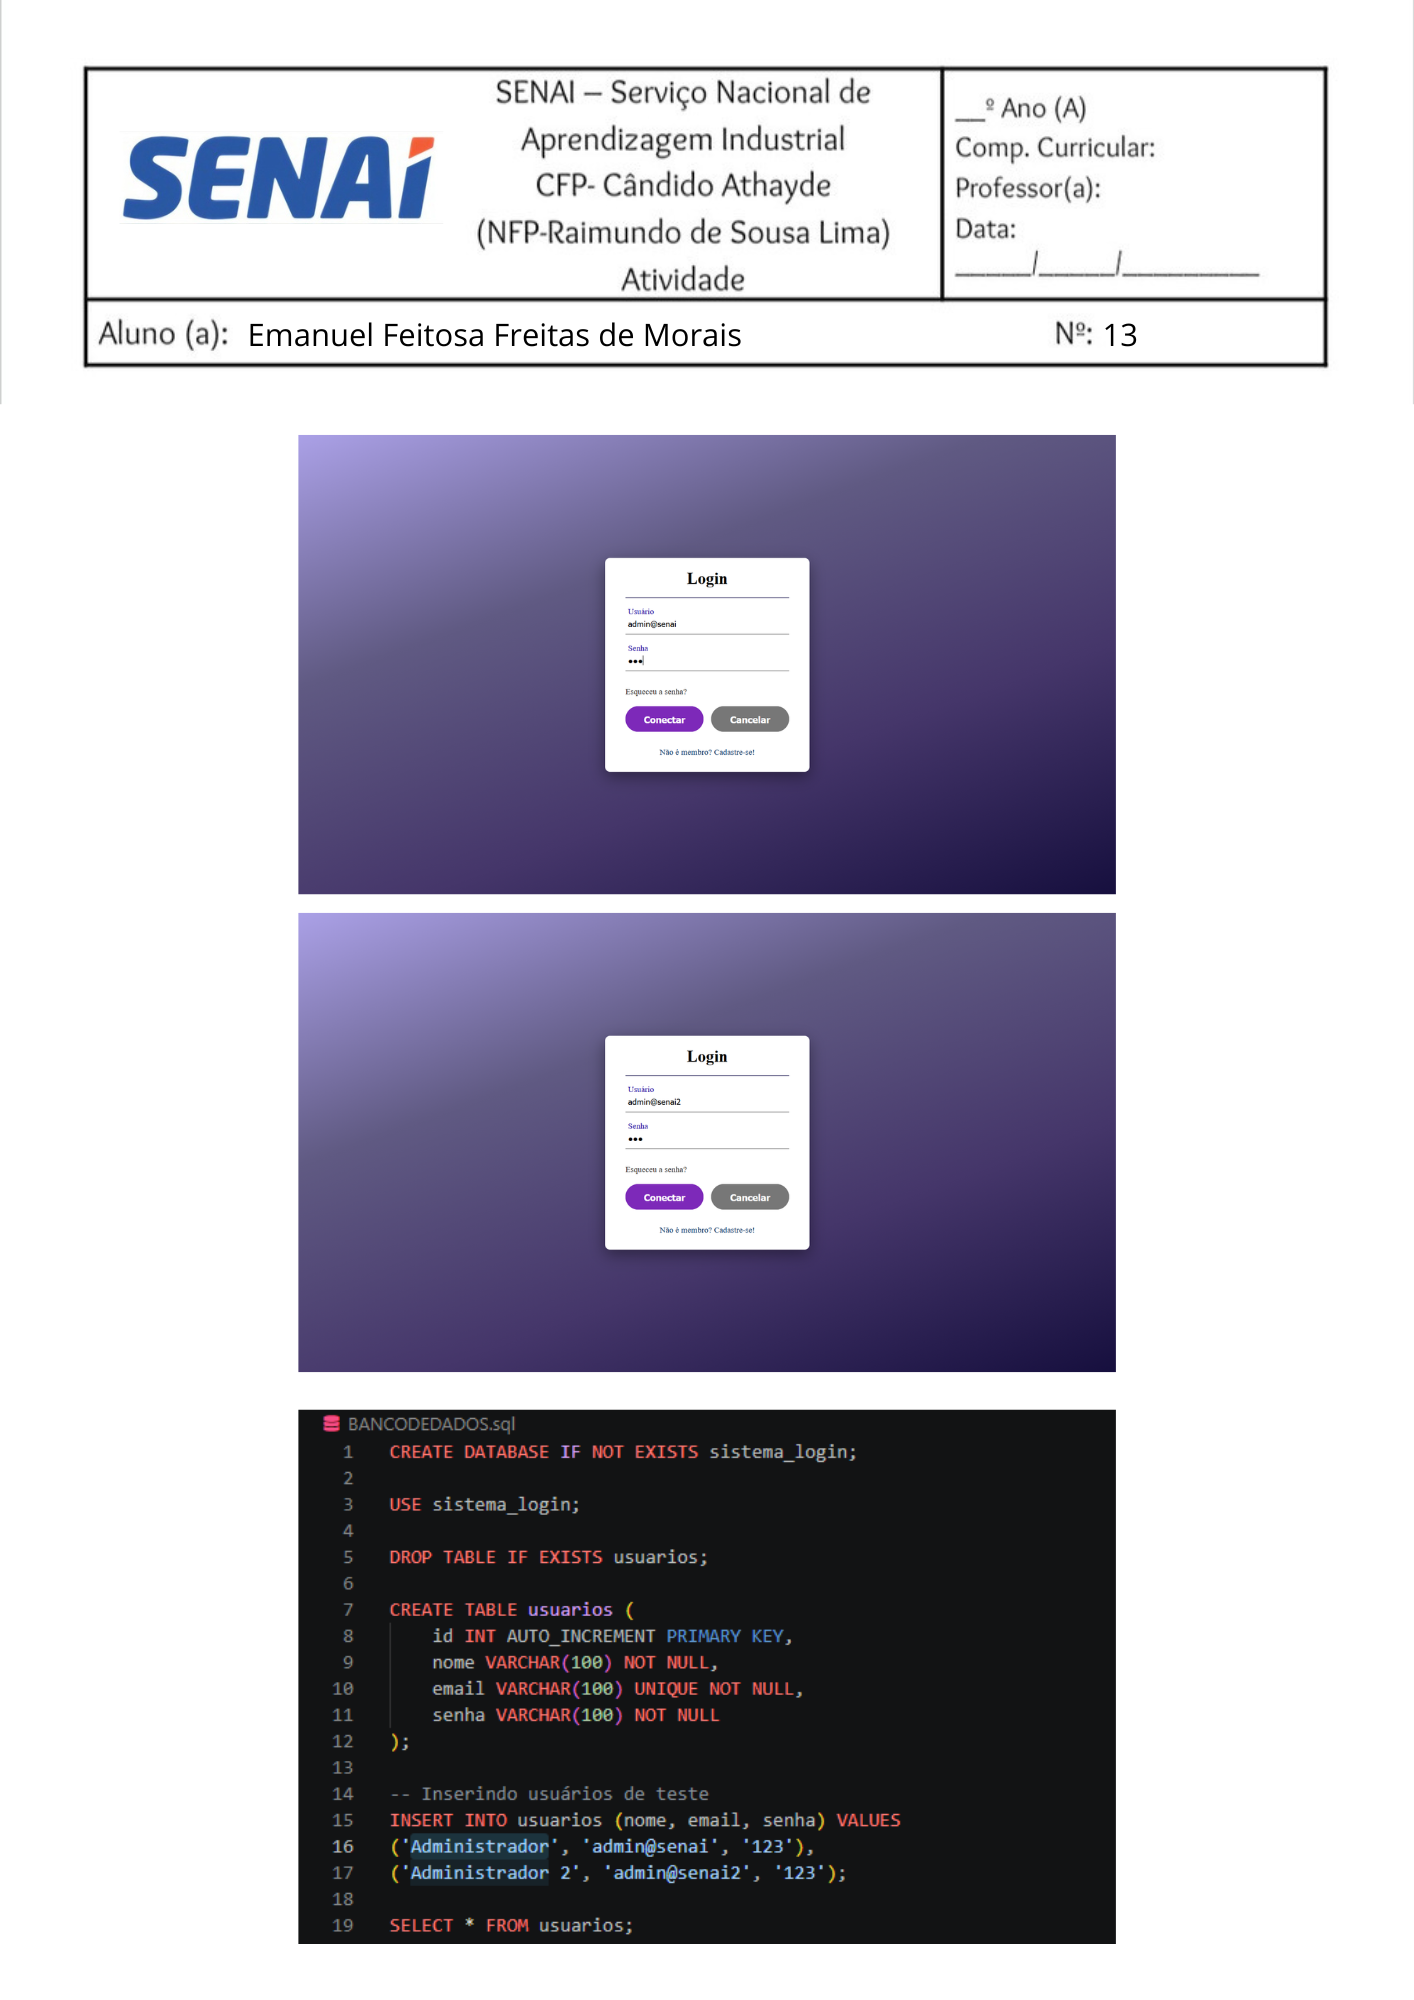
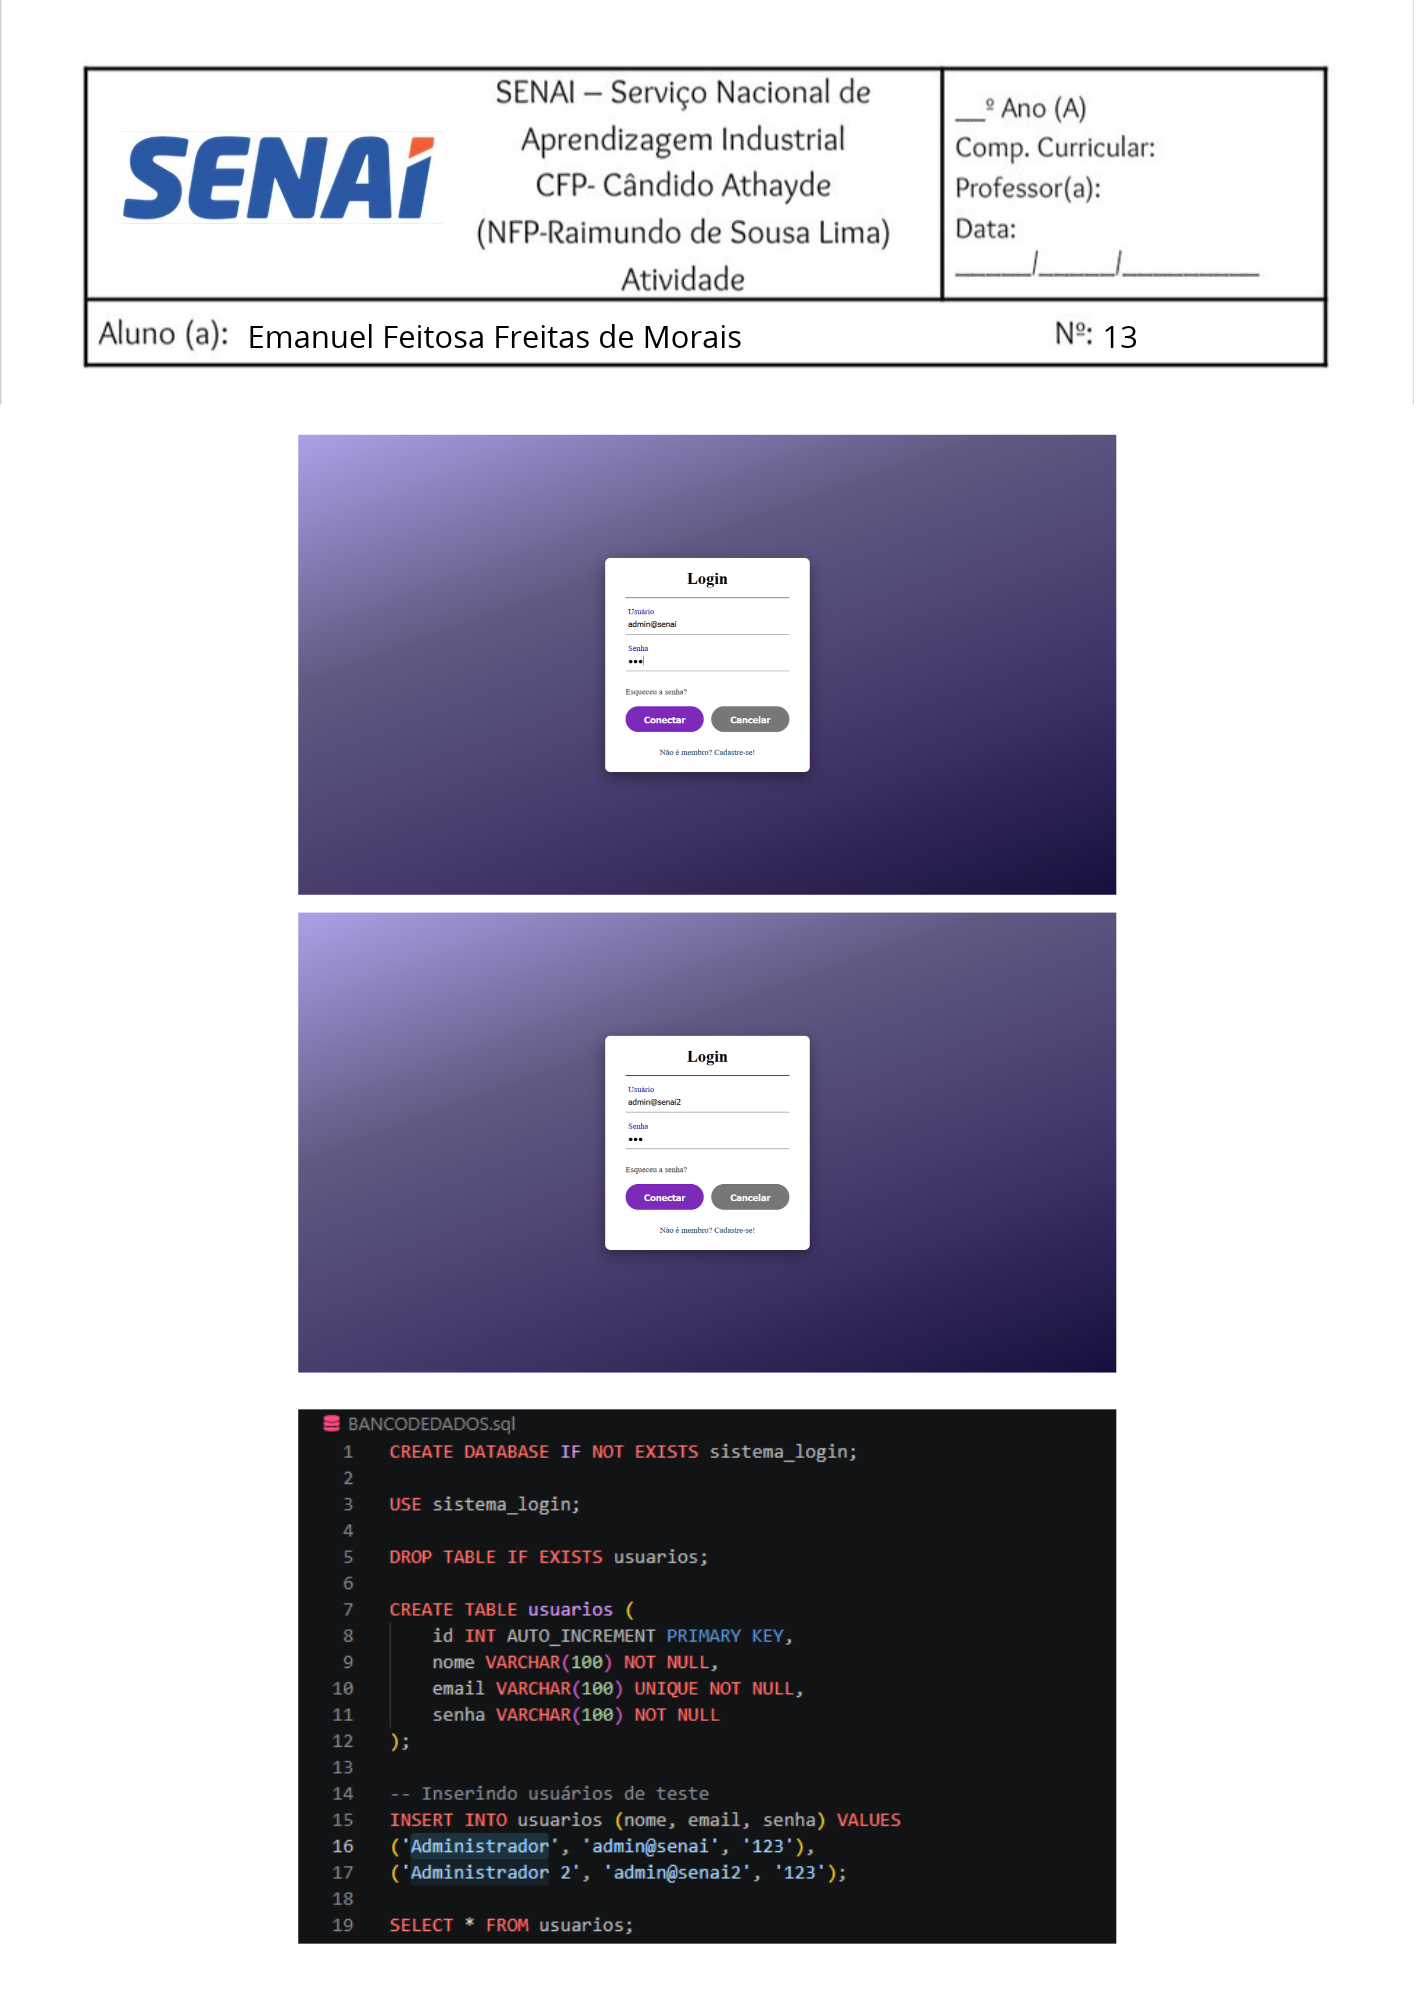
atualização portfolio

diff --git a/senai.html b/senai.html
@@ -34,14 +34,14 @@
     <div class="atividades_container">
         <div class="card_eixo">
             <h2>Eixo 3</h2>
-            <img src="./Portfólio Vertical/" alt="Eixo 3">
-            <p class="info_atividade">Em breve</p>
+            <img src="./Portfólio Vertical/login sem bancos de dados.png" alt="Eixo 3">
+            <p class="info_atividade">Login com duas verificações de senha.</p>
             <p class="info_professor">Cleiton</p>
         </div>
         <div class="card_eixo">
             <h2>Eixo 4</h2>
-            <img src="./Portfólio Vertical/" alt="Eixo 4">
-            <p class="info_atividade">Em breve</p>
+            <img src="./Portfólio Vertical/projeto institucional.png" alt="Eixo 4">
+            <p class="info_atividade">projeto institucional</p>
             <p class="info_professor">Cleiton</p>
         </div>
     </div>
@@ -49,16 +49,41 @@
     <h1>Eixo 3</h1>
     <div class="atividades">
         <div class="card_eixo">
-            <img src="./Portfólio Vertical/Diferenças que somam.png" alt="">
-            <p class="info_atividade">Diferenças que somam</p>
+            <img src="./Portfólio Vertical/bossa nova hotel 2.png" alt="">
+            <p class="info_atividade">Desenvolvimento do projeto para academias e farmácias, incluindo banco de dados, briefing, site e logotipo.</p>
+            <p class="info_professor">Cleiton</p>
+        </div>
+        <div class="card_eixo">
+            <img src="./Portfólio Vertical/login sem bancos de dados.png" alt="">
+            <p class="info_atividade">Login com duas verificações de senha.</p>
+            <p class="info_professor">Cleiton</p>
+        </div>
+        <div class="card_eixo">
+            <img src="./Portfólio Vertical/login com bancos de dados.png" alt="">
+            <p class="info_atividade">Login integrado ao banco de dados MySQL.</p>
             <p class="info_professor">Cleiton</p>
         </div>
     </div>
     <h1>Eixo 4</h1>
     <div class="atividades">
         <div class="card_eixo">
-            <img src="./Portfólio Vertical/Diferenças que somam.png" alt="">
-            <p class="info_atividade">Diferenças que somam</p>
+            <img src="./Portfólio Vertical/projeto institucional.png" alt="">
+            <p class="info_atividade">SITE COM PROPOSTA LIVRE</p>
+            <p class="info_professor">Cleiton</p>
+        </div>
+        <div class="card_eixo">
+            <img src="./Portfólio Vertical/login com botão logout.png" alt="">
+            <p class="info_atividade">LOGIN COM BOTÃO DE LOGOUT.</p>
+            <p class="info_professor">Cleiton</p>
+        </div>
+        <div class="card_eixo">
+            <img src="./Portfólio Vertical/GERENCIADOR DE EVENTOS.png" alt="">
+            <p class="info_atividade">SITE GERADOR DE EVENTOS.</p>
+            <p class="info_professor">Cleiton</p>
+        </div>
+        <div class="card_eixo">
+            <img src="./Portfólio Vertical/RELATÓRIO DE SISTEMA.png" alt="">
+            <p class="info_atividade">RELATÓRIO DE TESTES DE SOFTWARES – API DE LOGIN.</p>
             <p class="info_professor">Cleiton</p>
         </div>
     </div>
